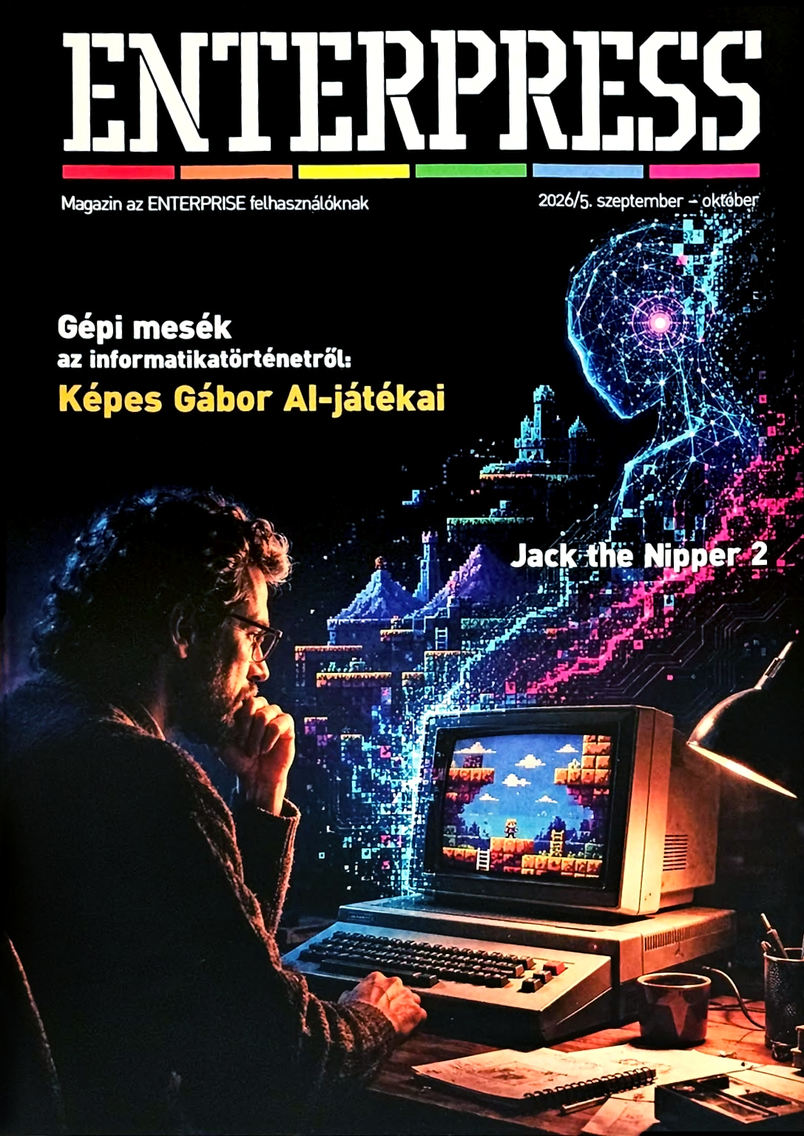
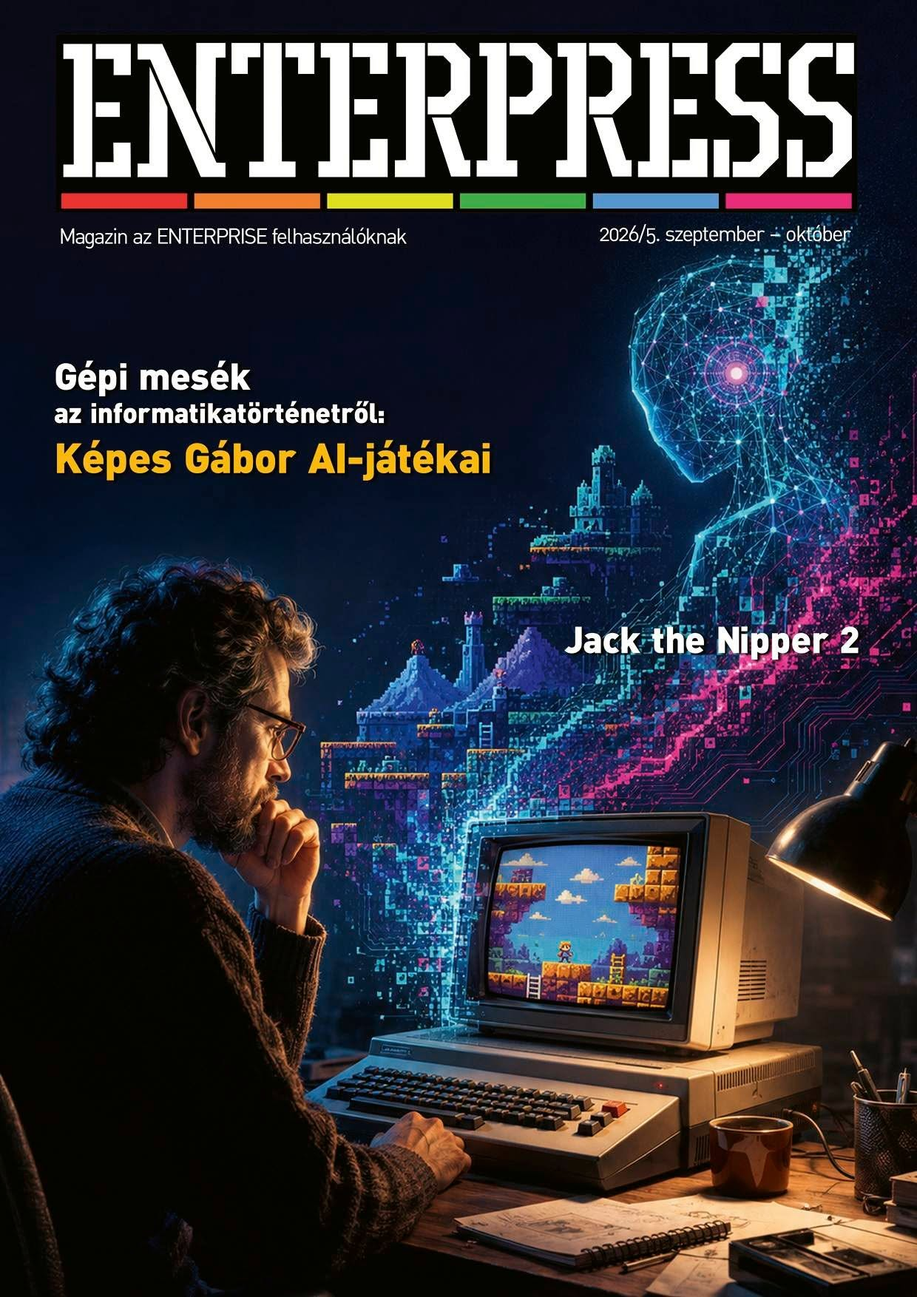
short info
short info
exdos man pics
tvc
msx pal

diff --git a/short-info.md b/short-info.md
@@ -12,6 +12,11 @@ title: "Стислий опис платформи Enterprise"
 - 128К — 16 травня 1985
 - 128К — 19 травня 1987 (в Угорщині)
 
+Закриття офіційних представництв:
+
+- Банкрутство та закриття [Enterprise Computers Ltd.](companies/enterprise-computers-ltd.md) — 1986 р.
+- Закриття [Enterprise Computers GmbH](companies/enterprise-computers-gmbh.md) — 1996 р.
+
 ## Технічні характеристики  
 
 Процесор: Zilog Z80A (4 MHz)  
@@ -24,7 +29,7 @@ title: "Стислий опис платформи Enterprise"
 ### Графічні можливості відеочіпу NICK
 
 - Відеопам'ять до 64 КБ (за рахунок ОЗП з незалежною адресацією)
-- Загальна палітра кольорів - [256](programming/system-info/info_colour-palette.md)
+- Загальна палітра кольорів - [256](programming/system-info/info_colour-palette.md) (8 біт)
 - Можливість задавати довільний відеорежим та розміщення у пам'яті для кожного рядку пікселів (завдяки чому можна легко сконфігурувати екранну пам'ять схожу на екрани комп'ютерів ZX Spectrum, Amstrad CPC та інших з аналогічними відеорежимами).
 - Апаратний текстовий режим.
 - Апаратна вертикальна прокрутка.
@@ -73,15 +78,15 @@ title: "Стислий опис платформи Enterprise"
 
 ![](hardware/pics-ep/backside.png)
 
-- Порт системної шини для підключення додаткових карт для розширення апаратних можливостей (такі як дисковий контролер, апаратний емулятор Спектруму та багато інших).  
-- RGB-відеовихід із стерео аудіо (та монохромний композитний сигнал)  
-- RF-відеовихід  
-- Два роз'єми для керування касетними накопичувачами.  
-- Аудіо вхід та вихід (стерео) для підключення касетних накопичувачів, навушників або аудіосистем.  
-- Послідовний порт RS-423 (об'єднаний з мережевим портом)  
-- Паралельний порт Centronics  
-- Два порти для підключення зовнішніх Atari-сумісних джойстиків (до 6 штук.) або інших пристроїв введення.  
-- Порт для ПЗП-картриджів  
+- [Порт системної шини](hardware/connections/pinouts-exp.md) для підключення додаткових карт для розширення апаратних можливостей (такі як [дисковий контролер](hardware/hd-exdos.md), [апаратний емулятор Спектруму](hardware/he-zxemu.md) та багато інших)  
+- [RGB-відеовихід із стерео аудіо](hardware/connections/pinouts-monitor.md) (та монохромний композитний сигнал)  
+- [RF-відеовихід](hardware/connections/pinouts-tv.md)  
+- Два [роз'єми для керування](hardware/connections/pinouts-tape-rem.md) касетними накопичувачами  
+- [Аудіо вхід та вихід](hardware/connections/pinouts-tape-rem.md) (стерео) для підключення касетних накопичувачів, навушників або аудіосистем  
+- [Послідовний порт RS-423](hardware/connections/pinouts-serial-net.md) (об'єднаний з мережевим портом)  
+- [Паралельний порт Centronics](hardware/connections/pinouts-printer.md)  
+- [Два порти](hardware/connections/pinouts-control12.md) для підключення зовнішніх Atari-сумісних джойстиків (до 6 штук.) або інших пристроїв введення  
+- [Порт для ПЗП-картриджів](hardware/connections/pinouts-cartridge.md)  
   
 ### Конфігурації комп'ютера
 
@@ -167,7 +172,7 @@ title: "Стислий опис платформи Enterprise"
 - двосторонні; 40 доріжок: 360К  
 - двосторонні; 80 доріжок: 720К  
   
-Розігнані комп'ютери можуть працювати і з дискетами HD-формату.  
+Розігнані комп'ютери можуть працювати і з дискетами HD-формату (1,4 МБ).  
 
 [EXDOS-контролери](hardware/hd-exdos.md) можуть бути окремому виконанні, або суміщені у одному корпусі з дисководом та блоком живлення.  
   
@@ -178,7 +183,7 @@ title: "Стислий опис платформи Enterprise"
 <div style="text-align:center;">
 <img src="hardware/cartridge/pics/sd-card-adapter_01.jpg" alt="SD-card адаптер" width="50%"></div>
 
-[Адаптер](hardware/hd-sd-card-adapter.md) дозволяє використовувати SD-карти у якості носія інформації. На карточці створюється один або декілька розділів з файловою системою FAT-12 (максимальний розмір 32 МБ). В останніх версіях адаптер містить годинник реального часу (RTC).  
+[Адаптер](hardware/hd-sd-card-adapter.md) дозволяє використовувати SD-карти у якості носія інформації. На карточці створюється один або декілька розділів з файловою системою FAT-12 (максимальний розмір кожного: 32 МБ). В останніх версіях адаптер містить годинник реального часу (RTC).  
  
 ## Графічний акселератор 2dfx
 
@@ -241,7 +246,7 @@ title: "Стислий опис платформи Enterprise"
   
 ## Вимикач вбудованого динаміка
 
-Користувачі комп'ютера коли підключали до нього аудіосистему (або навушники) з'ясовували, що внутрішній динамік не так то і просто вимкнути. Можна зробити це програмно, але після завантаження більшості програм чи ігор це налаштування скидається на значення по замовчуванню, і динамік знову починає працювати. Тому його або просто від'єднували, або ставили механічний вимикач десь у непримітному місці.
+Користувачі комп'ютера коли підключали до нього аудіосистему (або навушники) з'ясовували, що внутрішній динамік не так то і просто вимкнути. Можна зробити це програмно, але після завантаження більшості програм чи ігор це налаштування скидається (через недбалість програміста) на значення по замовчуванню, і динамік знову починає працювати. Тому його або просто від'єднували, або ставили механічний вимикач десь у непримітному місці.
 
 # Ігрові програми  
   
@@ -366,7 +371,7 @@ Small Demo [P1](https://www.youtube.com/watch?v=yjJbtodF3Hg) [P2](https://www.
   
 Можна згадати ще [Core](https://www.youtube.com/watch?v=6r3y0hfY0dw), що зайняла перше місце на **Enterprise DevCompo #2**.  
   
-Найсвіжіша робота: [Piti Demo](https://youtu.be/88VzWbhnpGM)  
+Найсвіжіші роботи: [Piti Demo](https://youtu.be/88VzWbhnpGM) та [Mr. Puniverse](https://youtu.be/iUH1WgSVuQ0).  
   
 Ще одна цікава демка у мінімалістичному стилі (242 байти) що приймала участь у Lovebyte 2024: [LaFaSoMi](https://www.youtube.com/watch?v=p5LxWXk2w2c).  
   
@@ -378,24 +383,24 @@ Small Demo [P1](https://www.youtube.com/watch?v=yjJbtodF3Hg) [P2](https://www.
   
 ### Апаратний емулятор ZX Spectrum
 
-<img src="hardware/pics-ext/zx-spectrum-emu_01.jpg" alt="Коробки емулятора та адаптера системної шини" width="30%"> 
+<img src="hardware/pics-ext/zx-spectrum-emu_01.jpg" alt="Коробки емулятора та адаптера системної шини" width="27%"> 
 <img src="hardware/pics-ext/zx-spectrum-emu_02.jpg" alt="Емулятор та адаптер системної шини" width="30%"> 
-<img src="hardware/pics-ext/zx-spectrum-emu_03.jpg" alt="Емулятор у роботі" width="30%"> 
+<img src="hardware/pics-ext/zx-spectrum-emu_03.jpg" alt="Емулятор у роботі" width="36%"> 
 
 Одним з перших емуляторів для комп'ютера Enterprise став [апаратний емулятор ZX Spectrum](hardware/he-zxemu.md) розроблений угорською компанією ['a' Studio](companies/a-studio.md) (у співпраці з компанією [Videoton](companies/videoton.md)).  
 Випускався у формфакторі карти розширення, що підключається до порту системної шини, і "перетворював" Ентерпрайз у ZX Spectrum 48k який міг запускати близько 80% ігор, завантажуючи їх з оригінальних касет. Не працювали ігри з турбозавантаженням та ті що напряму використовували функції ПЗП Спектрума.  
   
-Великим недоліком було те, що для виходу з емулятора необхідно було кожного разу від'єднувати карту розширення від комп'ютера. А по друге дисковий інтерфейс [EXDOS](hardware/hd-exdos.md) ніяк не був задіяний. Ці недоліки пізніше були виправлені ентузіастом [ZozoSoft](peoples/community/zozosoft.md), який вніс зміни як в апаратну частину емулятора, так і у програмну. Завдяки цьому дещо підвищилась і кількість ПЗ що можна було запускати. До того ж було додано можливість виходу з емулятора у Бейсік Ентерпрайза, можливість працювати одночасно з дисковим інтерфейсом завантажуючи Спектрум-програми як файли з дисків, з'явилась функція "Magic" (для збереження стану емуляції) та робота з POKE-файлами (для нескінченного життя чи патронів).  
+Великим недоліком було те, що для виходу з емулятора необхідно було кожного разу від'єднувати карту розширення від комп'ютера. А по друге дисковий інтерфейс [EXDOS](hardware/hd-exdos.md) ніяк не був задіяний (завантажувати ігри можна було лише через аудіовхід). Ці недоліки пізніше були виправлені ентузіастом [ZozoSoft](peoples/community/zozosoft.md), який вніс зміни як в апаратну частину емулятора, так і у програмну. Завдяки цьому дещо підвищилась і кількість ПЗ що можна було запускати. До того ж було додано можливість виходу з емулятора у Бейсік Ентерпрайза, можливість працювати одночасно з дисковим інтерфейсом завантажуючи Спектрум-програми як файли з дисків, з'явилась функція "Magic" (для збереження стану емуляції) та робота з POKE-файлами (для нескінченного життя чи патронів).  
   
 Емулятор був не дуже розповсюджений через вищевказані проблеми та й високу вартість, яка була трішки нижчою за ціну оригінального ZX Spectrum.  
   
 ### Перші програмні емулятори Спектрума
   
-Поряд з цим користувачі комп'ютера маючи доступ до офіційної документації по адаптації програм зі Спектруму зрозуміли, що цей процес цілком можна автоматизувати помістивши ПЗП Spectrum у фреймворк, в якому апаратні частини (клавіатура, звук і процедури магнітофона) модифікуються для апаратного забезпечення EP. Кілька програмістів незалежно один від одного прийшли до цієї ідеї, і загалом було створено близько десятка простих програмних емуляторів Spectrum. Однак, хоча ідея здається чудовою, програмна емуляція має багато недоліків:  
-- працюють лише програми, які працюють з апаратним забезпеченням тільки через підпрограми ПЗП,  
+Поряд з цим користувачі комп'ютера маючи доступ до офіційної документації по адаптації програм зі Спектруму зрозуміли, що цей процес цілком можна автоматизувати помістивши ПЗП Spectrum у фреймворк, в якому апаратні частини (клавіатура, звук і процедури магнітофона) модифікуються для апаратного забезпечення EP. Кілька програмістів незалежно один від одного прийшли до цієї ідеї, і загалом було створено близько десятка простих програмних емуляторів Spectrum. Але вони мали багато недоліків:  
+- працювали лише програми, які взаємодіють з апаратним забезпеченням тільки через підпрограми ПЗП  
 - некоректні кольори атрибутів (та відсутність FLASH-атрибуту).  
 - програми що використовують переривання IM2.  
-Через що у таких емуляторах працювали лише користувацькі програми та програми написані на Basic.  
+Через що у таких емуляторах працювали лише деякі користувацькі програми та програми написані на Basic.  
   
 ### SP by Alexander Gusev  
 
@@ -505,7 +510,7 @@ style="width:75%; aspect-ratio:16/9;" allowfullscreen></iframe>
   
 В наш час з'явились нові плеєри для інших популярних форматів.  
   
-**SID Player** вміє програвати коммодорівські музичні файли SID (PSID до 60KB) використовуючи для цього як сам [Dave](hardware/hm-dave.md), так і зовнішню [SID-карту розширення](hardware/sound/hs-sid-card.md) (є лише недороблений прототип цієї карти, але [ep128emu](emulators/em-ep128emu.md) вміє її емулювати). Заснований на SID-плеєрі з SAM Coupé.  
+**SID Player** вміє програвати коммодорівські музичні файли SID (PSID до 60KB) використовуючи для цього як сам [Dave](hardware/hm-dave.md), так і зовнішню [SID-карту розширення](hardware/sound/hs-sid-card.md) (є лише прототип цієї карти, але [ep128emu](emulators/em-ep128emu.md) вміє її емулювати). Заснований на SID-плеєрі з SAM Coupé.  
 Програвач має певні обмеження, оскільки емуляція чипу 6510 використовує більшу частину часу Z80, тому відтворюються тільки прямокутні хвилі, огинаючі емулюються в перериванні 50 Гц, а композиції відтворюються лише зі швидкістю 50 Гц, 60 Гц або 100 Гц  
 
 <iframe src="https://www.youtube.com/embed/6CKt9noxA7s"  
@@ -539,12 +544,26 @@ style="width:75%; aspect-ratio:16/9;" allowfullscreen></iframe>
 Додатково було модифіковано і емулятор [ep128emu](emulators/em-ep128emu.md) додаванням MIDI-входу для використання емулятора як аудіопристрою, щоб можна було просто адаптувати або писати власну музику (детальніше у [статті журналу ENTERPRESS](http://enterprise.iko.hu/magazines/Enterpress_2017_per_4_UK.pdf#page=3)).  
 MIDI Player використовується у декількох [іграх](https://youtu.be/4s4Hb56hDo4) та демці [Bad Apple!](https://youtu.be/44whXrpVH08).  
 Код плеєра нещодавно адаптували для Бейсіка щоб у програмах написаній на цій мові можна було використовувати MIDI-музику. Прикладом є простенька гра [Toligator](https://www.youtube.com/watch?v=K30-ux5UT3Y).  
-  
+
 [Плейлист з композиціями](https://www.youtube.com/playlist?list=PLLtDD9CPvGBBVGxf1g3kSoZ7AJz1M19l6) *(перше відео у плейлисті якраз відображає процес виводу міді-даних з аудіоредактора напряму у емулятор)*
-  
+
+**EpMid**  
+Новий плеєр, який вміє програвати звичайні MID-файли. Для виведення звуку використовується зовнішня МІДІ-карта, але за її відсутності можна використати і можливості процесора [Dave](hardware/hm-dave.md) (звісно, з великими обмеженнями).
+
+<div style="text-align:center;">
+<img src="software/music/screens/scrn_epmid_02.png" alt="Скріншот EpMid" width="30%"></div>
+
+
 **SNG Player**  
-Простенький (з деякими особливостями) плеєр Атарі-шного формату SNG від "The Music Studio". Використовувався у [іграх](https://youtu.be/RVsIMRLbR3Y) (та демках) розроблених чи сконвертованих компанією ['a' Studio](companies/a-studio.md).  
-  
+Оновлений плеєр файлів Атарі-шного формату SNG від "The Music Studio". 
+
+<div style="text-align:center;">
+<img src="software/music/screens/scrn_sng-player_01.png" alt="Скріншот SNG Player" width="30%"></div>
+
+Стара версія використовувалась у [іграх](https://youtu.be/RVsIMRLbR3Y) (та демках) розроблених чи сконвертованих компанією ['a' Studio](companies/a-studio.md). А у 2026 році, на основі вихідного коду оригінального редактора (The Music Studio), була створена сучасна версія плеєра.   
+
+----
+
 У 2024 році у пісі-шний редактор **Furnace Tracker** додали можливість емулювати чип [Dave](hardware/hm-dave.md). Але для практичного застосування цей варіант створення музики поки що не дуже підходить: ті аудіоформати у які редактор вміє експортувати композиції мало придатні для відтворення на Ентерпрайзі.
 
 <iframe src="https://www.youtube.com/embed/yQyuE0NnEh4"  
@@ -556,3 +575,59 @@ style="width:75%; aspect-ratio:16/9;" allowfullscreen></iframe>
 # Основні інтернет-ресурси
 
 [Список актуальних ресурсів](links.md)
+
+----
+
+# Videoton TV-Computer
+
+![](history/pics/videoton-tvc_01.jpg)
+
+На завершення додам декілька слів й про «найближчого родича» Ентерпрайза — комп'ютер **Videoton TVC**.
+
+Багато людей чомусь впевнені що цей комп'ютер є клоном Ентерпрайзу і має з ним певну сумісність, але це не відповідає дійсності (навіть не зважаючи на те що він теж має вбудований джойстик 😉). Так, TVC створювався на основі документації та схем придбаних у Enterprise Computers та програмне забезпечення (ОС, Бейсік та дискову систему) для нього розробляла та ж сама [Intelligent Software Ltd.](companies/intelligent-software-ltd.md), але цей угорський комп'ютер ніяк не сумісний з Ентерпрайзом (ні програмно, ні апаратно, ні Бейсіком, ні форматом запису інформації на касети). Videoton TVC — є унікальною, самобутньою та доволі цікавою платформою.
+
+В Угорщині цей комп'ютер досі пам'ятають. Для нього створюються нові апаратні розширення та регулярно проводяться конкурси серед розробників ПЗ. Хоча треба мати на увазі, що майже уся інформація про цей комп'ютер є на угорській мові. Навіть більшість нових ігор для нього створюється лише на цій доволі складній для іноземця мові.
+
+З інтернет ресурсів можу порекомендувати сайт [tvc.homeserver.hu](https://tvc.homeserver.hu) та [групу у Фейсбуці](https://www.facebook.com/groups/videotontvcomputer).
+
+> [!Цікавий факт:]
+> Videoton створив пробну партію комп'ютерів адаптованих для радянських шкіл. Ця модифікація отримала нову клавіатуру з фонетичною розкладкою JCUKEN та модифіковану прошивку з шрифтами які містили кирилицю. Радянський Союз не зацікавився даною пропозицією, але якимось чином ці кирилізовані моделі потрапили на територію СРСР де їх досі можна побачити на сайтах приватних оголошень.
+> 
+> ![](history/pics/videoton-tvc-kbd-ru_02.jpg)
+
+
+## Технічні характеристики
+
+ - Центральний процесор: **Zilog Z80** (3,125 МГц)
+ - Оперативна пам'ять: **32** або **64 кБ** (в залежності від моделі)
+ - Відеопроцесор: **Motorola 6845** або його аналог **Hitachi 46505** _(використовувався у комп'ютерах Amstrad CPC, Color Genie, BBC Micro та інших)_
+ - Відеопам'ять: **виділена**; **16** або **64 кБ** (в залежності від моделі)
+ - Звук: **1-канальний** програмований ланцюг розрядністю 12 біт (195312,5 Гц)
+
+Загальна палітра кольорів — **15 кольорів** (схожа на Спектрумівську).
+
+![#000000](https://dummyimage.com/40x20/000000/000000.png&text=+) 
+![#000092](https://dummyimage.com/40x20/000092/000000.png&text=+) 
+![#920000](https://dummyimage.com/40x20/920000/000000.png&text=+) 
+![#920092](https://dummyimage.com/40x20/920092/000000.png&text=+) 
+![#009200](https://dummyimage.com/40x20/009200/000000.png&text=+) 
+![#009292](https://dummyimage.com/40x20/009292/000000.png&text=+) 
+![#929200](https://dummyimage.com/40x20/929200/000000.png&text=+) 
+![#929292](https://dummyimage.com/40x20/929292/000000.png&text=+)  
+![#000000](https://dummyimage.com/40x20/000000/000000.png&text=+) 
+![#0000FF](https://dummyimage.com/40x20/0000FF/000000.png&text=+) 
+![#FF0000](https://dummyimage.com/40x20/FF0000/000000.png&text=+) 
+![#FF00FF](https://dummyimage.com/40x20/FF00FF/000000.png&text=+) 
+![#00FF00](https://dummyimage.com/40x20/00FF00/000000.png&text=+) 
+![#00FFFF](https://dummyimage.com/40x20/00FFFF/000000.png&text=+) 
+![#FFFF00](https://dummyimage.com/40x20/FFFF00/000000.png&text=+) 
+![#FFFFFF](https://dummyimage.com/40x20/FFFFFF/000000.png&text=+)  
+
+Три відеорежими схожі на Амстрадівські (Amstrad CPC):
+
+- **16**-колірний: **128 × 240** точок.
+- **4**-колірний: **256 × 240** точок.
+- **2**-колірний: **512 × 240** точок.
+
+але (як і в Ентерпрайзі) є зовнішній 4-бітний цифровий відеовхід.
+

diff --git a/programming/conv-msx/msx-palette.md b/programming/conv-msx/msx-palette.md
@@ -1,0 +1,26 @@
+---
+title: "Конверсія програм з платформи MSX: Кольори"
+---
+# Палітра кольорів MSX
+
+Таблиця наближених кольорів.
+
+|  №  |   Офіційна назва    |     RGB-код     |                          Колір<br>Pico-8                          |                            Колір<br>EP                            |       RGB       | Номер палітри |
+|:---:|:-------------------:|:---------------:|:-----------------------------------------------------------------:|:-----------------------------------------------------------------:|:---------------:|:-------------:|
+|  0  | Transparent / Black |    (0, 0, 0)    | ![#000000](https://dummyimage.com/40x40/000000/000000.png&text=+) | ![#000000](https://dummyimage.com/40x40/000000/000000.png&text=+) |    (0, 0, 0)    |       0       |
+|  1  |        Black        |    (1, 1, 1)    | ![#010101](https://dummyimage.com/40x40/010101/000000.png&text=+) | ![#000000](https://dummyimage.com/40x40/000000/000000.png&text=+) |    (0, 0, 0)    |       0       |
+|  2  |    Medium Green     |  (62, 184, 73)  | ![#3eb849](https://dummyimage.com/40x40/3eb849/000000.png&text=+) | ![#49b655](https://dummyimage.com/40x40/49b655/000000.png&text=+) |  (73, 182, 85)  |      170      |
+|  3  |     Light Green     | (116, 208, 125) | ![#74d07d](https://dummyimage.com/40x40/74d07d/000000.png&text=+) | ![#6ddb55](https://dummyimage.com/40x40/6ddb55/000000.png&text=+) | (109, 219, 85)  |      122      |
+|  4  |      Dark Blue      |  (89, 85, 224)  | ![#5955e0](https://dummyimage.com/40x40/5955e0/000000.png&text=+) | ![#6d49ff](https://dummyimage.com/40x40/6d49ff/000000.png&text=+) | (109, 73, 255)  |      124      |
+|  5  |     Light Blue      | (128, 118, 241) | ![#8076f1](https://dummyimage.com/40x40/8076f1/000000.png&text=+) | ![#926dff](https://dummyimage.com/40x40/926dff/000000.png&text=+) | (146, 109, 255) |      181      |
+|  6  |      Dark Red       |  (185, 94, 81)  | ![#b95e51](https://dummyimage.com/40x40/b95e51/000000.png&text=+) | ![#b64955](https://dummyimage.com/40x40/b64955/000000.png&text=+) |  (182, 73, 85)  |      113      |
+|  7  |        Cyan         | (101, 219, 239) | ![#65dbef](https://dummyimage.com/40x40/65dbef/000000.png&text=+) | ![#49dbff](https://dummyimage.com/40x40/49dbff/000000.png&text=+) | (73, 219, 255)  |      62       |
+|  8  |     Medium Red      | (219, 101, 89)  | ![#db6559](https://dummyimage.com/40x40/db6559/000000.png&text=+) | ![#db6d55](https://dummyimage.com/40x40/db6d55/000000.png&text=+) | (219, 109, 85)  |      185      |
+|  9  |      Light Red      | (255, 137, 125) | ![#ff897d](https://dummyimage.com/40x40/ff897d/000000.png&text=+) | ![#ff9255](https://dummyimage.com/40x40/ff9255/000000.png&text=+) | (255, 146, 85)  |      107      |
+| 10  |     Dark Yellow     | (204, 195, 94)  | ![#ccc35e](https://dummyimage.com/40x40/ccc35e/000000.png&text=+) | ![#b6b655](https://dummyimage.com/40x40/b6b655/000000.png&text=+) | (182, 182, 85)  |      227      |
+| 11  |    Light Yellow     | (222, 208, 135) | ![#ded087](https://dummyimage.com/40x40/ded087/000000.png&text=+) | ![#dbdb55](https://dummyimage.com/40x40/dbdb55/000000.png&text=+) | (219, 219, 85)  |      59       |
+| 12  |     Dark Green      |  (58, 162, 65)  | ![#3aa241](https://dummyimage.com/40x40/3aa241/000000.png&text=+) | ![#009200](https://dummyimage.com/40x40/009200/000000.png&text=+) |   (0, 146, 0)   |       2       |
+| 13  |       Magenta       | (183, 102, 181) | ![#b766b5](https://dummyimage.com/40x40/b766b5/000000.png&text=+) | ![#b66daa](https://dummyimage.com/40x40/b66daa/000000.png&text=+) | (182, 109, 170) |      213      |
+| 14  |        Gray         | (204, 204, 204) | ![#cccccc](https://dummyimage.com/40x40/cccccc/000000.png&text=+) | ![#b6b6aa](https://dummyimage.com/40x40/b6b6aa/000000.png&text=+) | (182, 182, 170) |      199      |
+| 15  |        White        | (255, 255, 255) | ![#FFFFFF](https://dummyimage.com/40x40/FFFFFF/000000.png&text=+) | ![#FFFFFF](https://dummyimage.com/40x40/FFFFFF/000000.png&text=+) | (255, 255, 255) |      255      |
+

diff --git a/manuals/exdos-man-en/exdos-3floppy-disk.md b/manuals/exdos-man-en/exdos-3floppy-disk.md
@@ -49,8 +49,20 @@ Disks may be "write protected", to stop any data being written to the disk or an
 
 ## Diagram 4: Write protecting a 3.5” disk
 
-![](http://ep.homeserver.hu/Dokumentacio/Konyvek/EXDOS/Picture/004abra.GIF)
+<div style="text-align:center;">
+<img src="pics/isdos-man-diagram-4.png" alt="Write protecting a 3.5” disk" width="70%"></div>
+
+**Underside**  
+Hole covered = Write enable  
+Hole uncovered = Write protect  
+Slide plastic "switch" to change  
 
 ## Diagram 5: Write protecting a 5.25” disk
 
-![](http://ep.homeserver.hu/Dokumentacio/Konyvek/EXDOS/Picture/005abra.GIF)
+<div style="text-align:center;">
+<img src="pics/isdos-man-diagram-5.png" alt="Write protecting a 5.25” disk" width="70%"></div>
+
+**Top**  
+Notch covered = Write protect  
+Notch uncovered = Write enable  
+(Cover with sticky tape provided to write protect)  

diff --git a/manuals/exdos-man-en/exdos-6using-disk.md b/manuals/exdos-man-en/exdos-6using-disk.md
@@ -13,11 +13,13 @@ Insert a new disk into the required drive (see Figures 7 or 8 for disk insertion
 
 ## Diagram 7: Inserting a 3.5” disk
 
-![](http://ep.homeserver.hu/Dokumentacio/Konyvek/EXDOS/Picture/007abra.GIF)
+<div style="text-align:center;">
+<img src="pics/isdos-man-diagram-7.png" alt="Inserting a 3.5” disk" width="80%"></div>
 
 ## Diagram 8: Inserting a 5.25” disk
 
-![](http://ep.homeserver.hu/Dokumentacio/Konyvek/EXDOS/Picture/008abra.GIF)
+<div style="text-align:center;">
+<img src="pics/isdos-man-diagram-8.png" alt="Inserting a 3.5” disk" width="80%"></div>
 
 Enter the EXDOS command interpreter (see [previous chapter](exdos-5install.md)).
 

diff --git a/manuals/exdos-man-en/exdos-a2configuring-drives.md b/manuals/exdos-man-en/exdos-a2configuring-drives.md
@@ -53,7 +53,8 @@ Certain drives designed for use with the Acorn BBC computer are fitted with a DC
 
 ## Diagram B: Looking INTO power connector on "BBC" compatible drives.
 
-![](http://ep.homeserver.hu/Dokumentacio/Konyvek/EXDOS/Picture/010abra.GIF)
+<div style="text-align:center;">
+<img src="pics/isdos-man-diagram-b.svg" alt="Looking INTO power connector on 'BBC' compatible drives" width="50%"></div>
 
 ## Drive selection
 

diff --git a/manuals/exdos-man-en/exdos-5install.md b/manuals/exdos-man-en/exdos-5install.md
@@ -27,7 +27,8 @@ Your local computer store should be able to offer advice on the choice of drive 
 
 ## Diagram 6: The complete system
 
-![](http://ep.homeserver.hu/Dokumentacio/Konyvek/EXDOS/Picture/006abra.GIF)
+<div style="text-align:center;">
+<img src="pics/isdos-man-diagram-6.png" alt="The complete system" width="100%"></div>
 
 Step by step instructions.
 

diff --git a/press/magz/enterpress-hu/enterpress-2026-09-10.md b/press/magz/enterpress-hu/enterpress-2026-09-10.md
@@ -11,3 +11,4 @@ title: Журнал «Enterpress 2026/5 (2026.09-10)»
 
 ## Зміст
 
+Gépi mesék az informatikatörténetről: Képes Gábor AI-játékai [>](https://www.facebook.com/groups/112679608813524/posts/28699722103015893/)

diff --git a/hardware/connections/pinouts-cartridge.md b/hardware/connections/pinouts-cartridge.md
@@ -1,0 +1,7 @@
+---
+title: Порт картриджа
+---
+
+# Порт картриджа
+
+Використовується для підключення [картриджів](../cartridge/cart-main.md).

diff --git a/programming/conv-msx/main.md b/programming/conv-msx/main.md
@@ -1,0 +1,6 @@
+---
+title: "Конверсія програм з платформи MSX"
+---
+# Конверсія програм з платформи MSX
+
+[Палітра](msx-palette.md)

diff --git a/programming/programming.md b/programming/programming.md
@@ -47,3 +47,5 @@ title: "Програмування"
 [Amstrad CPC](conv-cpc/main.md)
 
 [Pico-8](conv-pico8/main.md)
+
+[MSX](conv-msx/main.md)
